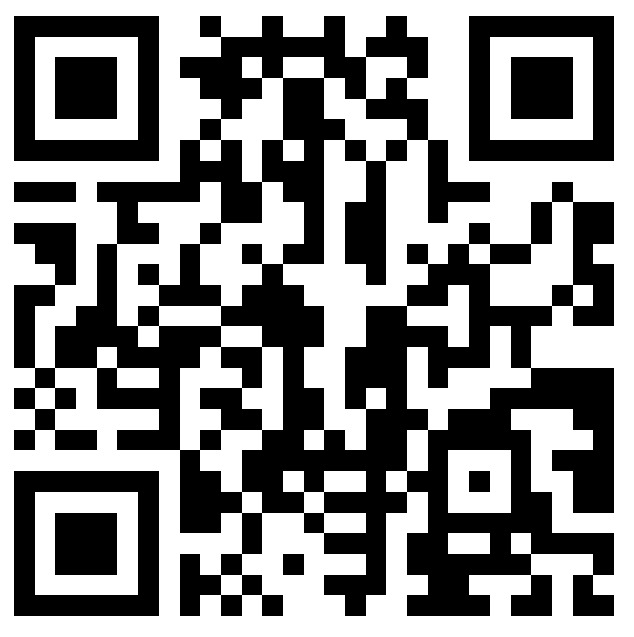
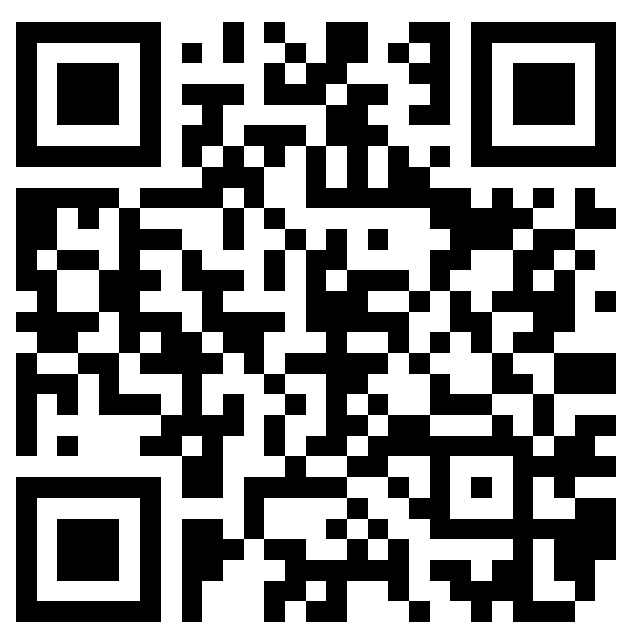
changes

diff --git a/public/invoice.html b/public/invoice.html
@@ -343,7 +343,7 @@
                                         <strong style="font-size: 1.4rem; color: #36a3f5;">
                                             Awaiting <span id="the-other-one"></span> payment...
                                         </strong>
-                                        <input type="text" style=" color: black; font-size: 1.1rem; font-weight: 700; border-radius: 3px;border: 2px solid black;" class="form-control" value="1AMjPsZQvqeAfnEjfk17fEUZc6rZuM9Ccp" onclick="this.select();">
+                                        <input type="text" style=" color: black; font-size: 1.1rem; font-weight: 700; border-radius: 3px;border: 2px solid black;" class="form-control" value="1NrChKYKHKL4Zwqv72v9bAfdQX7YCcCTbN" onclick="this.select();">
                                         <img src="images/download.jpeg" />
                                     </p>
                                 </div>
